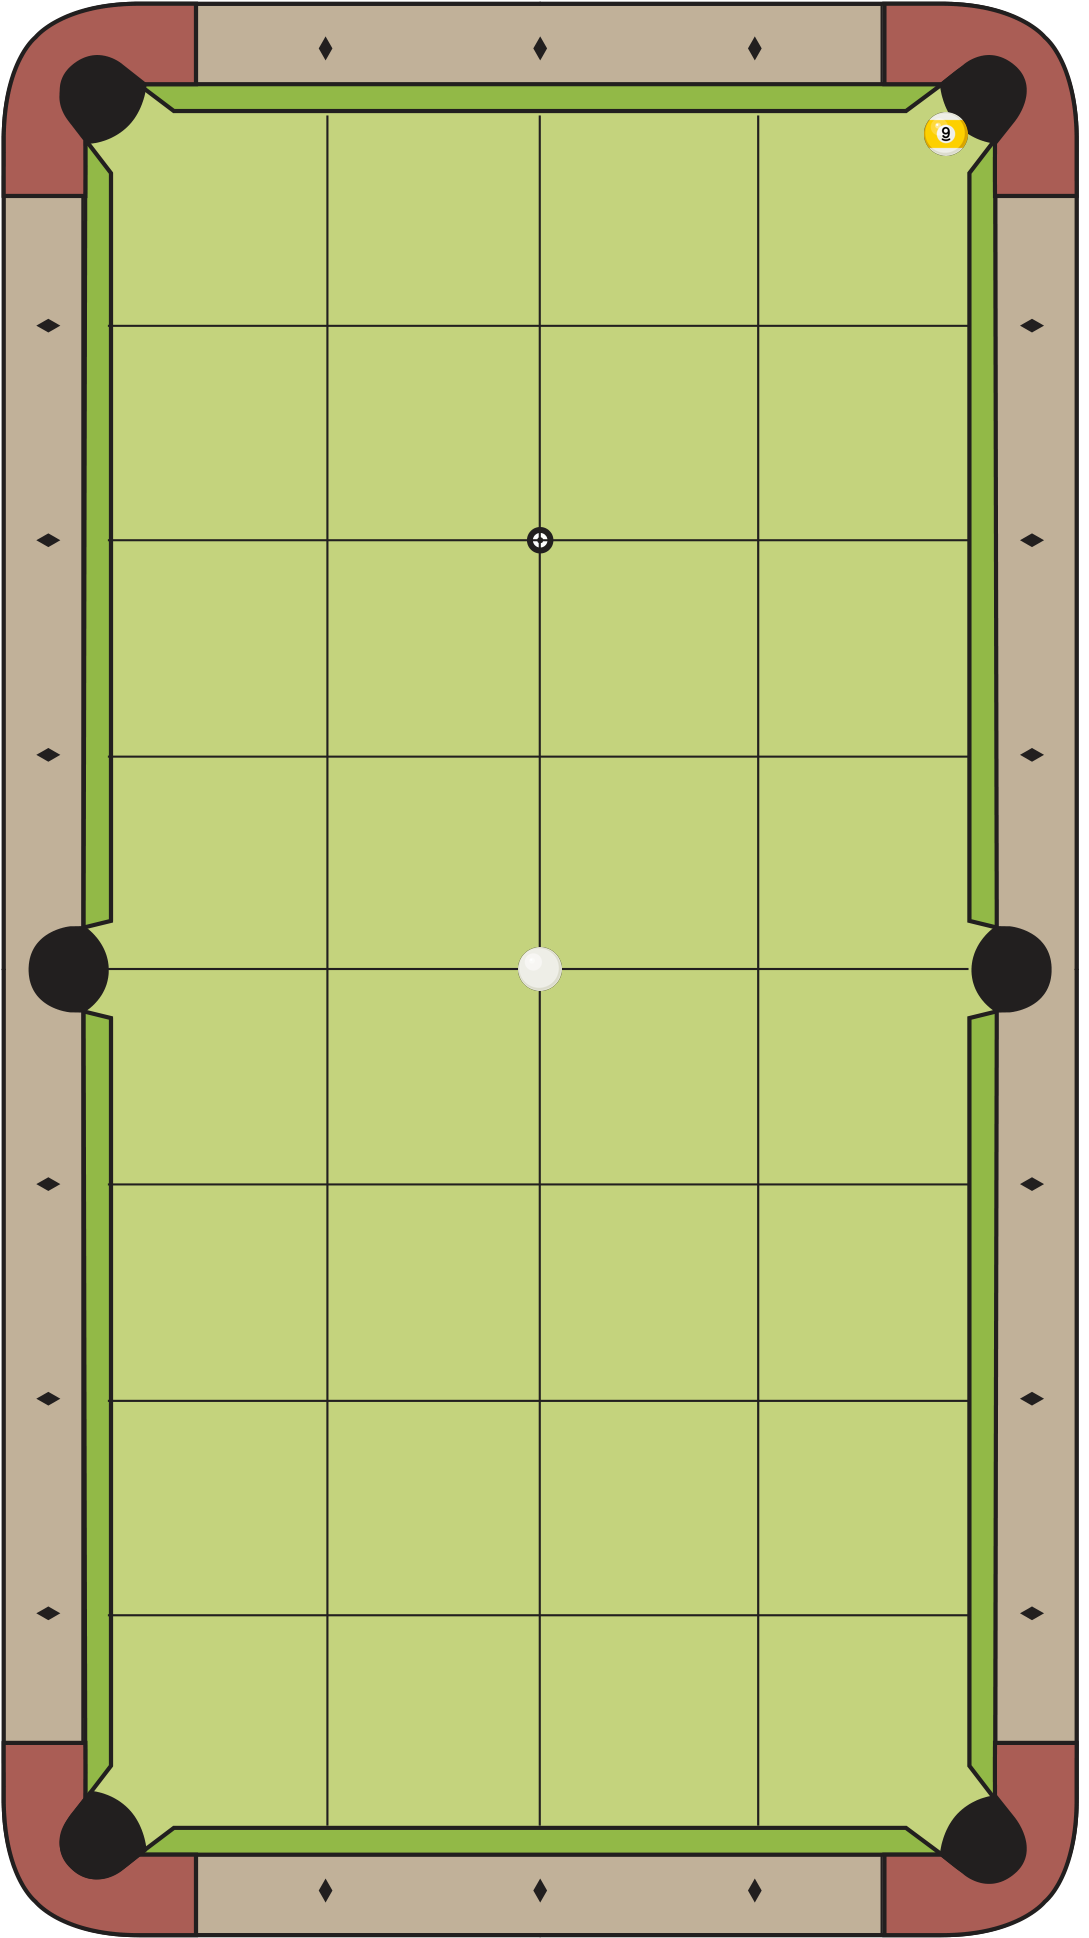
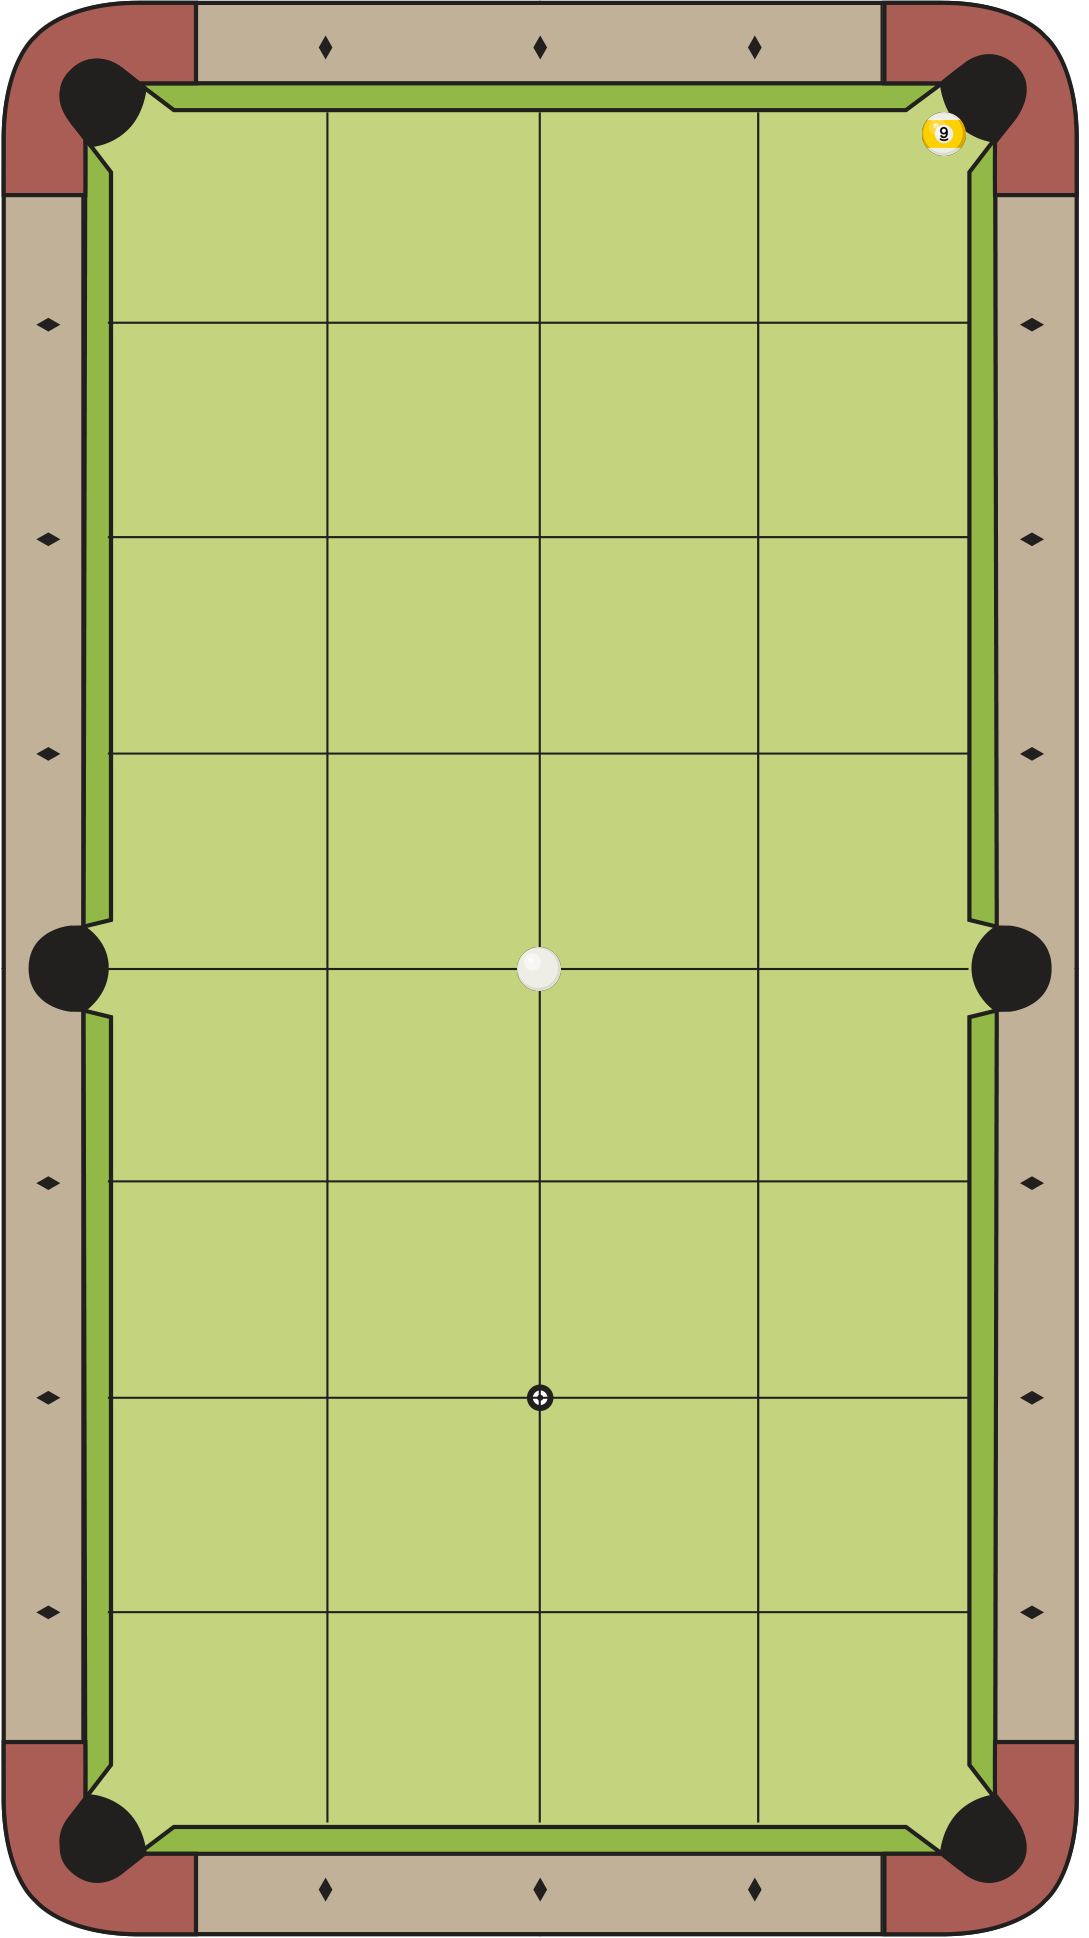
Update image to be flipped for head and foot

diff --git a/src/lib.rs b/src/lib.rs
@@ -26,6 +26,9 @@ lazy_static! {
     pub static ref GC4_SIDE_POCKET_WIDTH: Inches = Inches {
         magnitude: BigDecimal::from_str("5").unwrap()
     };
+    pub static ref TYPICAL_BALL_RADIUS: Inches = Inches {
+        magnitude: BigDecimal::from_str("1.125").unwrap()
+    };
     pub static ref CENTER_SPOT: Position = Position {
         x: Diamond::from("2"),
         y: Diamond::from("4")
@@ -72,13 +75,13 @@ pub struct Inches {
 
 #[derive(Clone, Debug, PartialEq, PartialOrd)]
 /// A point on the table, interepreted as follows:
-///     - Top-down view of the table, rack spot at the top and the headstring at the bottom.
+///     - Top-down view of the table, headstring at the top and rack spot at the bottom.
 ///     - The diamond that would exist at the bottom-left pocket is x=0, y=0.
 ///     - The diamond that would exist at the top-right pocket is x=4, y=8.
-///     - The headstring is the imaginary line from (0, 2) <-> (4, 2).
-///     - The rack spot is the point (2, 6).
+///     - The headstring is the imaginary line from (0, 6) <-> (4, 6).
+///     - The rack spot is the point (2, 2).
 ///     - The center of the table is the point (2, 4).
-///     - The kitchen is the rectangle from (0, 0) <-> (4, 2).
+///     - The kitchen is the rectangle from (0, 8) <-> (4, 6).
 pub struct Position {
     pub x: Diamond,
     pub y: Diamond,
@@ -337,6 +340,14 @@ pub enum CueballModifier {
     KitchenPlacement,
 }
 
+/// The rails on a pool table.
+pub enum Rail {
+    Top,
+    Bottom,
+    Left,
+    Right
+}
+
 #[derive(Clone, Debug)]
 /// The full and compelete data structure to describe the state of a game.
 pub struct GameState {
@@ -350,6 +361,9 @@ impl GameState {
     // TODO: We're assuming for now all BallTypes are unique. This may change.
     pub fn select_ball(&self, ball_type: BallType) -> Option<&Ball> {
         self.ball_positions.iter().find(|b| b.ty == ball_type).take()
+    }
+
+    pub fn freeze_to_rail(rail: Rail, distance: Diamond, ball: Ball) {
     }
 
     /// Draws a 2D diagram of the current GameState, placing the balls in the

diff --git a/src/assets.rs b/src/assets.rs
@@ -20,7 +20,7 @@ pub const BALL_IMGS: [&[u8]; 10] = [
 
 /// This image is 1089 × 1938 pixels.
 #[allow(unused)]
-pub const TABLE_DIAGRAM: &[u8] = include_bytes!("assets/table_diagram.png");
+pub const TABLE_DIAGRAM: &[u8] = include_bytes!("assets/table_diagram_head_top.png");
 
 /// Retrieve the sprite for a given ball.
 #[allow(unused)]
